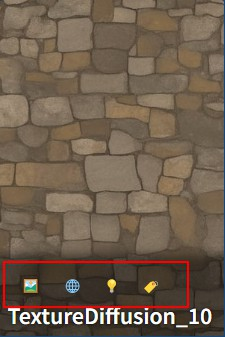
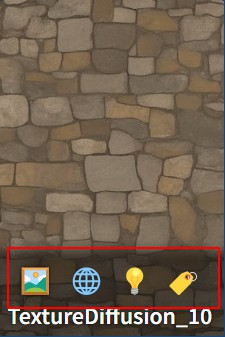
add event.stopPropagation to model card buttons

Changed region(s): [[0.0, 0.7122, 0.9956, 0.9199]]

diff --git a/javascript/civitai_helper.js b/javascript/civitai_helper.js
@@ -25,7 +25,7 @@ function getActiveNegativePrompt() {
 
 
 //button's click function
-function open_model_url(model_type, model_name){
+function open_model_url(event, model_type, model_name){
     console.log("start open_model_url");
 
     //get hidden components of extension 
@@ -59,9 +59,12 @@ function open_model_url(model_type, model_name){
     console.log("end open_model_url");
 
 
+    event.stopPropagation()
+    event.preventDefault()
+
 }
 
-function add_trigger_words(model_type, model_name){
+function add_trigger_words(event, model_type, model_name){
     console.log("start add_trigger_words");
 
     //get hidden components of extension 
@@ -96,10 +99,14 @@ function add_trigger_words(model_type, model_name){
     js_add_trigger_words_btn.click();
 
     console.log("end add_trigger_words");
+
+    event.stopPropagation()
+    event.preventDefault()
+
     
 }
 
-function use_preview_prompt(model_type, model_name){
+function use_preview_prompt(event, model_type, model_name){
     console.log("start use_preview_prompt");
 
     //get hidden components of extension 
@@ -137,7 +144,10 @@ function use_preview_prompt(model_type, model_name){
     js_use_preview_prompt_btn.click();
 
     console.log("end use_preview_prompt");
-    
+
+    event.stopPropagation()
+    event.preventDefault()
+
 }
 
 
@@ -209,10 +219,11 @@ onUiLoaded(() => {
                 for (let card of cards) {
                     // replace preview text button into icon
                     replace_preview_btn = card.querySelector(".actions .additional a");
-                    replace_preview_btn.style.margin = "0px 10px";
                     if (replace_preview_btn) {
                         if (replace_preview_btn.innerHTML == "replace preview") {
                             replace_preview_btn.innerHTML = "🖼";
+                            replace_preview_btn.style.margin = "0px 5px";
+                            replace_preview_btn.style.fontSize = "200%";
                         }
                     }
 
@@ -237,21 +248,24 @@ onUiLoaded(() => {
                     // then we need to add 3 buttons to each ul node:
                     let open_url_node = document.createElement("button");
                     open_url_node.innerHTML = "🌐";
+                    open_url_node.style.fontSize = "200%";
                     open_url_node.title = "Open this model's civitai url";
-                    open_url_node.style.margin = "0px 10px";
-                    open_url_node.setAttribute("onclick","open_model_url('"+model_type+"', '"+model_name+"')");
+                    open_url_node.style.margin = "0px 5px";
+                    open_url_node.setAttribute("onclick","open_model_url(event, '"+model_type+"', '"+model_name+"')");
 
                     let add_trigger_words_node = document.createElement("button");
                     add_trigger_words_node.innerHTML = "💡";
+                    add_trigger_words_node.style.fontSize = "200%";
                     add_trigger_words_node.title = "Add trigger words to prompt";
-                    add_trigger_words_node.style.margin = "0px 10px";
-                    add_trigger_words_node.setAttribute("onclick","add_trigger_words('"+model_type+"', '"+model_name+"')");
+                    add_trigger_words_node.style.margin = "0px 5px";
+                    add_trigger_words_node.setAttribute("onclick","add_trigger_words(event, '"+model_type+"', '"+model_name+"')");
 
                     let use_preview_prompt_node = document.createElement("button");
                     use_preview_prompt_node.innerHTML = "🏷";
+                    use_preview_prompt_node.style.fontSize = "200%";
                     use_preview_prompt_node.title = "Use promt from preview image";
-                    use_preview_prompt_node.style.margin = "0px 10px";
-                    use_preview_prompt_node.setAttribute("onclick","use_preview_prompt('"+model_type+"', '"+model_name+"')");
+                    use_preview_prompt_node.style.margin = "0px 5px";
+                    use_preview_prompt_node.setAttribute("onclick","use_preview_prompt(event, '"+model_type+"', '"+model_name+"')");
 
                     //add to card
                     ul_node.appendChild(open_url_node);
